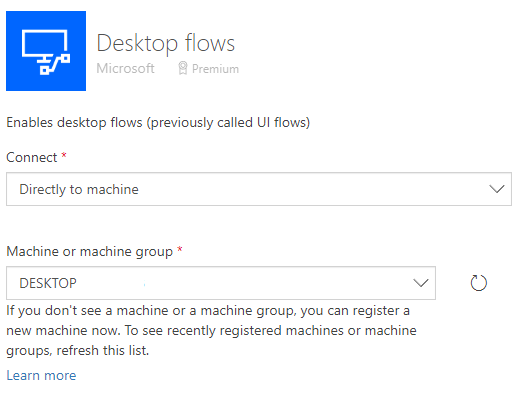
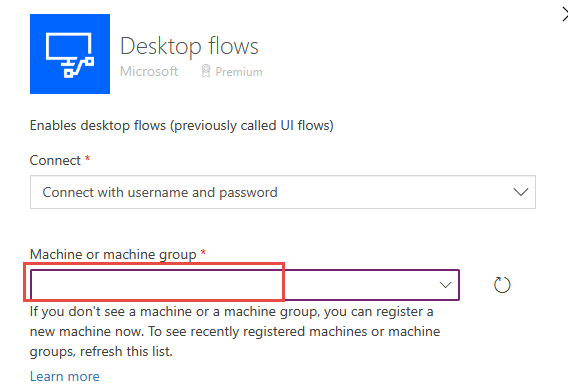
Test and update completed

diff --git a/Instructions/L03/Lab03_Use_Desktop_Flow_from_Cloud_Flow.md b/Instructions/L03/Lab03_Use_Desktop_Flow_from_Cloud_Flow.md
@@ -37,7 +37,7 @@ desktop flows.
 > <img src="../L03/media/image2.png" style="width:6.5in;height:2.73333in"
 > alt="Name the flow and select manual trigger" />
 
-5.  Expand the trigger by clicking on Manually trigger a flow.
+5.  Expand the trigger by clicking on **Manually trigger a flow**.
 
 6.  Select **+ Add an input**.
 
@@ -236,9 +236,7 @@ outputs('List_rows')?\['body/value'\]\[0\]\['rc_loanid'\]
 > <img src="../L03/media/image25.png" style="width:3.44203in;height:3.81323in"
 > alt="select new connection" />
 
-5.  Select Directly to machine for Connect and select your desktop. If you
-    don’t see your desktop here, go to desktop flow machine settings and
-    make sure you have the Dev environment selected.
+5.  Select **Connect with username and password** for Connect and select your desktop. If you don’t see your desktop here, go to desktop flow machine settings and make sure you have the Dev environment selected.
 
 > <img src="../L03/media/image26.png" style="width:4.31809in;height:3.27103in"
 > alt="set the connections for the desktop flow" />
@@ -260,6 +258,8 @@ outputs('List_rows')?\['body/value'\]\[0\]\['rc_loanid'\]
 
 > <img src="../L03/media/image29.png" style="width:3.00407in;height:3.74772in"
 > alt="select create" />
+
+
 
 ## Task \#2: Create child flow
 
@@ -302,42 +302,37 @@ outputs('List_rows')?\['body/value'\]\[0\]\['rc_loanid'\]
 > <img src="../L03/media/image33.png" style="width:4.30704in;height:2.56398in"
 > alt="search for and select Run a flow built with Power Automate for desktop" />
 
-13. Configure the Connection reference to connect **Directly to machine**, using the Lab PC credentials from the Resources tab and click **Create**.
-
-> <img src="../L03/media/image121.png"
-> alt="Configure the Connection reference" />
-
-14. Select **Perform Site Inspection** for Desktop flow and select
+13. Select **Perform Site Inspection** for Desktop flow and select
     **Attended** for Run Mode.
 
-15. Click on the **WorkToInspect** field and select **Work** from the
+14. Click on the **WorkToInspect** field and select **Work** from the
     dynamic content pane.
 
 > <img src="../L03/media/image34.png" style="width:5.17569in;height:2.50711in"
 > alt="select work from the dynamic content pane" />
 
-16. Click on the **PropertyAddress** and select **PropertyAddress** from
+15. Click on the **PropertyAddress** and select **PropertyAddress** from
     the dynamic content pane.
 
-17. Enter your name for Inspection account number.
+16. Enter your name for Inspection account number.
 
 > <img src="../L03/media/image35.png" style="width:4.72773in;height:2.51887in"
 > alt="enter text as described" />
 
-18. Click **+ New step**.
+17. Click **+ New step**.
 
-19. Search the connectors and actions for **Parse JSON**. Select the **Parse JSON** action which is part of the **Data Operation** connector.
+18. Search the connectors and actions for **Parse JSON**. Select the **Parse JSON** action which is part of the **Data Operation** connector.
 
 > <img src="../L03/media/image36.png" style="width:3.44863in;height:2.05186in"
 > alt="select parse JSON" />
 
-20. Click on the **Content** field and select **SitePhotos** from
+19. Click on the **Content** field and select **SitePhotos** from
     dynamic content pane.
 
 > <img src="../L03/media/image37.png" style="width:5.74142in;height:2.33276in"
 > alt="select SitePhotos from dynamic content pane" />
 
-21. Paste the JSON schema below in the **Schema** field and click **+
+20. Paste the JSON schema below in the **Schema** field and click **+
     New step**. Typically, you would generate this from a sample of the
     data expected.
 
@@ -370,200 +365,195 @@ outputs('List_rows')?\['body/value'\]\[0\]\['rc_loanid'\]
 > <img src="../L03/media/image38.png" style="width:5.06349in;height:3.28424in"
 > alt="select new step" />
 
-22. Select the **HTTP** action. 
+21. Select the **HTTP** action. 
 
 > <img src="../L03/media/image39.png" style="width:5.25816in;height:3.17753in"
 > alt="select HTTP action" />
 
-23. Select **GET** for Method, click on the **URI** field, and select
+22. Select **GET** for Method, click on the **URI** field, and select
     **url** from the dynamic content pane.
 
 > <img src="../L03/media/image40.png" style="width:5.56881in;height:2.5131in"
 > alt="select Get method" />
 
-24. Apply to each will be added automatically for you. Rename the Apply
+23. Apply to each will be added automatically for you. Rename the Apply
     to each step **Apply to each image**.
 
-25. Click **Add an action**.
+24. Click **Add an action**.
 
 > <img src="../L03/media/image41.png" style="width:5.80506in;height:2.67368in"
 > alt="select add an action from the apply to each image step" />
 
-26. Select the **Add a new row** action from the **Microsoft Dataverse** connector.
+25. Select the **Add a new row** action from the **Microsoft Dataverse** connector.
 
 > <img src="../L03/media/image42.png" style="width:5.35704in;height:2.78884in"
 > alt="search for and select Add a new row action" />
 
-27. Select **Inspection Photos** for Table name, click on the **Name**
+26. Select **Inspection Photos** for Table name, click on the **Name**
     field, and select **name** from the dynamic content pane.
 
 > <img src="../L03/media/image43.png" style="width:6.20226in;height:2.29272in"
 > alt="choose Inspection Photo and enter the details" />
 
-28. Rename the "Add a new row" step to **Add inspection photo** and click
+27. Rename the "Add a new row" step to **Add inspection photo** and click
     **Show advanced options**.
 
 > <img src="../L03/media/image44.png" style="width:5.85125in;height:1.88382in"
 > alt="rename the step" />
 
-29. Enter **rc_loandraws()** for Loan Draw, place your cursor inside the
-    single parentheses, and select **LoanDrawID** from the dynamic
-    content pane.
+28. Enter **rc_loandraws()** for Loan Draw, place your cursor inside the parentheses, and select **LoanDrawID** from the dynamic content pane.
 
 > <img src="../L03/media/image45.png" style="width:6.04811in;height:1.99924in"
 > alt="enter details shown" />
 
-30. Click on the **Photo** field, go to the dynamic content pane, and
+29. Click on the **Photo** field, go to the dynamic content pane, and
     select the **Expression** tab.
 
-31. Paste the expression below and click **OK**.
+30. Paste the expression below and click **OK**.
 
     ```base64(body('HTTP'))```
 
 > <img src="../L03/media/image46.png" style="width:6.00811in;height:1.5874in"
 > alt="enter details shown" />
 
-32. Click **+ New step**.
+31. Click **+ New step**.
 
 > <img src="../L03/media/image47.png" style="width:5.7087in;height:2.91412in"
 > alt="select add new step" />
 
-33. Select the **Update a row** action from the **Microsoft Dataverse** connector.
+32. Select the **Update a row** action from the **Microsoft Dataverse** connector.
 
 > <img src="../L03/media/image48.png" style="width:5.05116in;height:2.89525in"
 > alt="search for an select Update a row Microsoft Dataverse" />
 
-34. Select **Loan Draws** for Table name, click on the **Row ID** field
+33. Select **Loan Draws** for Table name, click on the **Row ID** field
     and select **LoanDrawID** from the dynamic content pane.
 
-35. Click **Show advanced options**.
+34. Click **Show advanced options**.
 
 > <img src="../L03/media/image49.png" style="width:5.78311in;height:2.20018in"
 > alt="show advanced options" />
 
-36. Click on the **Inspected On** field, go to the dynamic content pane,
+35. Click on the **Inspected On** field, go to the dynamic content pane,
     select the **Expression** tab, type **utcNow()** and click **OK**.
 
 > <img src="../L03/media/image50.png" style="width:6.07711in;height:2.19711in"
 > alt="add time to the field" />
 
-37. Click on the **Inspection Job** field and select **JobNumber** from
+36. Click on the **Inspection Job** field and select **JobNumber** from
     the dynamic content pane.
 
 > <img src="../L03/media/image51.png" style="width:5.91128in;height:2.13084in"
 > alt="add job number field" />
 
-38. Select Inspection Completed for **Status Reason** and click **Hide
-    advanced options**.
+37. Select **Inspection Completed** for Status Reason and click **Hide advanced options**.
 
 > <img src="../L03/media/image52.png" style="width:5.58884in;height:1.90116in"
 > alt="input status reason and hide advanced options" />
 
-39. Rename the step **Update loan draw** and click **+ New step**.
+38. Rename the step **Update loan draw** and click **+ New step**.
 
-40. Select the **Respond to PowerApp or flow** action from the **PowerApps** connector.
+39. Select the **Respond to PowerApp or flow** action from the **PowerApps** connector.
 
 > <img src="../L03/media/image53.png" style="width:5.86513in;height:3.07293in"
 > alt="search for and select Respond to PowerApp or flow" />
 
-41. Click **+ Add an output**.
+40. Click **+ Add an output**.
 
-42. Select **Text**.
+41. Select **Text**.
 
-43. Enter **InspectionStatus**, click on the value field and select
+42. Enter **InspectionStatus**, click on the value field and select
     **InspectionStatus** from the dynamic content pane.
 
 > <img src="../L03/media/image54.png" style="width:5.60209in;height:2.04931in"
 > alt="enter details as described" />
 
-44. Click **+ Add an output** again.
+43. Click **+ Add an output** again.
 
-45. Select **Text**.
+44. Select **Text**.
 
-46. Enter **JobNumber**, click on the value field and select
+45. Enter **JobNumber**, click on the value field and select
     **JobNumber** from the dynamic content pane.
 
 > <img src="../L03/media/image55.png" style="width:4.97512in;height:2.49606in"
 > alt="enter details as described" />
 
-47. Click **Save** to save the flow.
+46. Click **Save** to save the flow.
 
-48. Click on the **back** arrow.
+47. Click on the **back** arrow.
 
 > <img src="../L03/media/image56.png" style="width:4.10365in;height:0.8124in"
 > alt="select back button" />
 
-49. Open the flow details.
+48. Open the flow details.
 
 > <img src="../L03/media/image57.png" style="width:6.5in;height:2.44722in"
 > alt="open flow details" />
 
-50. Click **Run**.
+49. Click **Run**.
 
-51. If prompted, select **Manually** and click **Test** again.
+50. If prompted, select **Manually** and click **Test** again.
 
-52. Click **Continue**.
+51. Click **Continue**.
 
 > <img src="../L03/media/image58.png" style="width:3in;height:2.79in"
 > alt="run the flo" />
 
-53. **DO NOT** navigate away from this page.
+52. **DO NOT** navigate away from this page.
 
-54. Start a new browser instance and navigate to
+53. Start a new browser instance and navigate to
     <https://make.powerapps.com/> and make sure you are in the Dev
     environment.
 
-55. Select **Apps** and launch the **Loan Manager** application.
+54. Select **Apps** and launch the **Loan Manager** application.
 
 > <img src="../L03/media/image59.png" style="width:5.56642in;height:1.639in"
 > alt="launch the loan manager app" />
 
-56. Open the first loan record.
+55. Open the first loan record.
 
-57. Click **Related** and select **Loan Draws**.
+56. Click **Related** and select **Loan Draws**.
 
 > <img src="../L03/media/image60.png" style="width:4.4884in;height:2.15515in"
 > alt="drill into record details as described" />
 
-58. Click **+ New Loan Draw**.
+57. Click **+ New Loan Draw**.
 
 > <img src="../L03/media/image61.png" style="width:4.76948in;height:1.70101in"
 > alt="add a new loan draw" />
 
-59. Enter **Test Draw** for Name and click **Save**.
+58. Enter **Test Draw** for Name and click **Save**.
 
-60. Click on the **Test Draw** row to open the record.
-
-61. Go to the URL and copy the **id** GUID. Paste this id into Notepad, you
+59. Go to the URL and copy the **id** GUID. Paste this id into Notepad, you
     will need it in future steps.
 
 > <img src="../L03/media/image62.png" style="width:6.5in;height:0.82083in"
 > alt="get the url id as described" />
 
-62. Go back to the Cloud Flow and enter **123 Main Street** for
+60. Go back to the Cloud Flow and enter **123 Main Street** for
     PropertyAddress, paste the id you copied in the LoanDrawID field,
     type **Test work item** for Work, and click **Run flow**. 
 
 > <img src="../L03/media/image63.png" style="width:2.37356in;height:3.89538in"
 > alt="follow the steps to run the flow" />
 
-63. **Wait** for the flow run to complete. 
+61. **Wait** for the flow run to complete. 
 
-64. **Close** the run flow pane. 
+62. **Close** the run flow pane. 
 
-65. Go to the **28-day run history** and click **refresh** until the flow run
+63. Go to the **28-day run history** and click **refresh** until the flow run
     shows as **Succeeded**.
 
 > <img src="../L03/media/image64.png" style="width:5.59704in;height:1.36637in"
 > alt="Wait for the succeeded message" />
 
-66. Go back to the **Loan Manager** application, click **Related** and
+64. Go back to the **Loan Manager** application, click **Related** and
     select **Inspection Photos**.
 
 > <img src="../L03/media/image65.png" style="width:5.39586in;height:2.24312in"
 > alt="Select the related photos" />
 
-67. You should see the inspection photos created by the flow.
+65. You should see the inspection photos created by the flow.
 
 > <img src="../L03/media/image66.png" style="width:5.71998in;height:2.80927in"
 > alt="Review the photos created by the flow" />
@@ -863,7 +853,7 @@ outputs('List_rows')?\['body/value'\]\[0\]\['rc_loanid'\]
 > alt="select automated" />
 
 14. Enter **Process Construction Funding Request** for Flow name, select the
-    **When a new email arrives in a shared mailbox (V2)** trigger, and click
+    **When a new email arrives in a shared mailbox** trigger, and click
     **Create**.
 
 > <img src="../L03/media/image97.png" style="width:6.5in;height:2.65556in"
@@ -910,15 +900,12 @@ outputs('List_rows')?\['body/value'\]\[0\]\['rc_loanid'\]
 > <img src="../L03/media/image101.png" style="width:5.05882in;height:2.24836in"
 > alt="enter details as described" />
 
-27. Select **is equal to** for the operator, click to select the second
-    operand field, go to the dynamic content pane, and select the expression tab. Type **true** and click OK.
+27. Select **is equal to** for the operator and type True for the second
+    operand field.
 
 28. Rename the condition **Check if loan number found**.
 
 29. Go to the **If no** branch and click **Add an action**.
-
-> <img src="../L03/media/image102.png" style="width:5.02245in;height:2.23864in"
-> alt="add an action on the no branch" />
 
 30. Select the **Send an email from a shared mailbox (V2)** action from the **Office 365 Outlook** connector.
 
@@ -977,7 +964,7 @@ outputs('List_rows')?\['body/value'\]\[0\]\['rc_loanid'\]
 43. Enter **80000** for Amount Requested.
 
 44. Type **rc_loans()** for Loan (Loans), place your cursor inside the
-    single parentheses, and select **LoanID** from the dynamic content
+    parentheses, and select **LoanID** from the dynamic content
     pane.
 
 > <img src="../L03/media/image111.png" style="width:6.5in;height:2.40903in"
